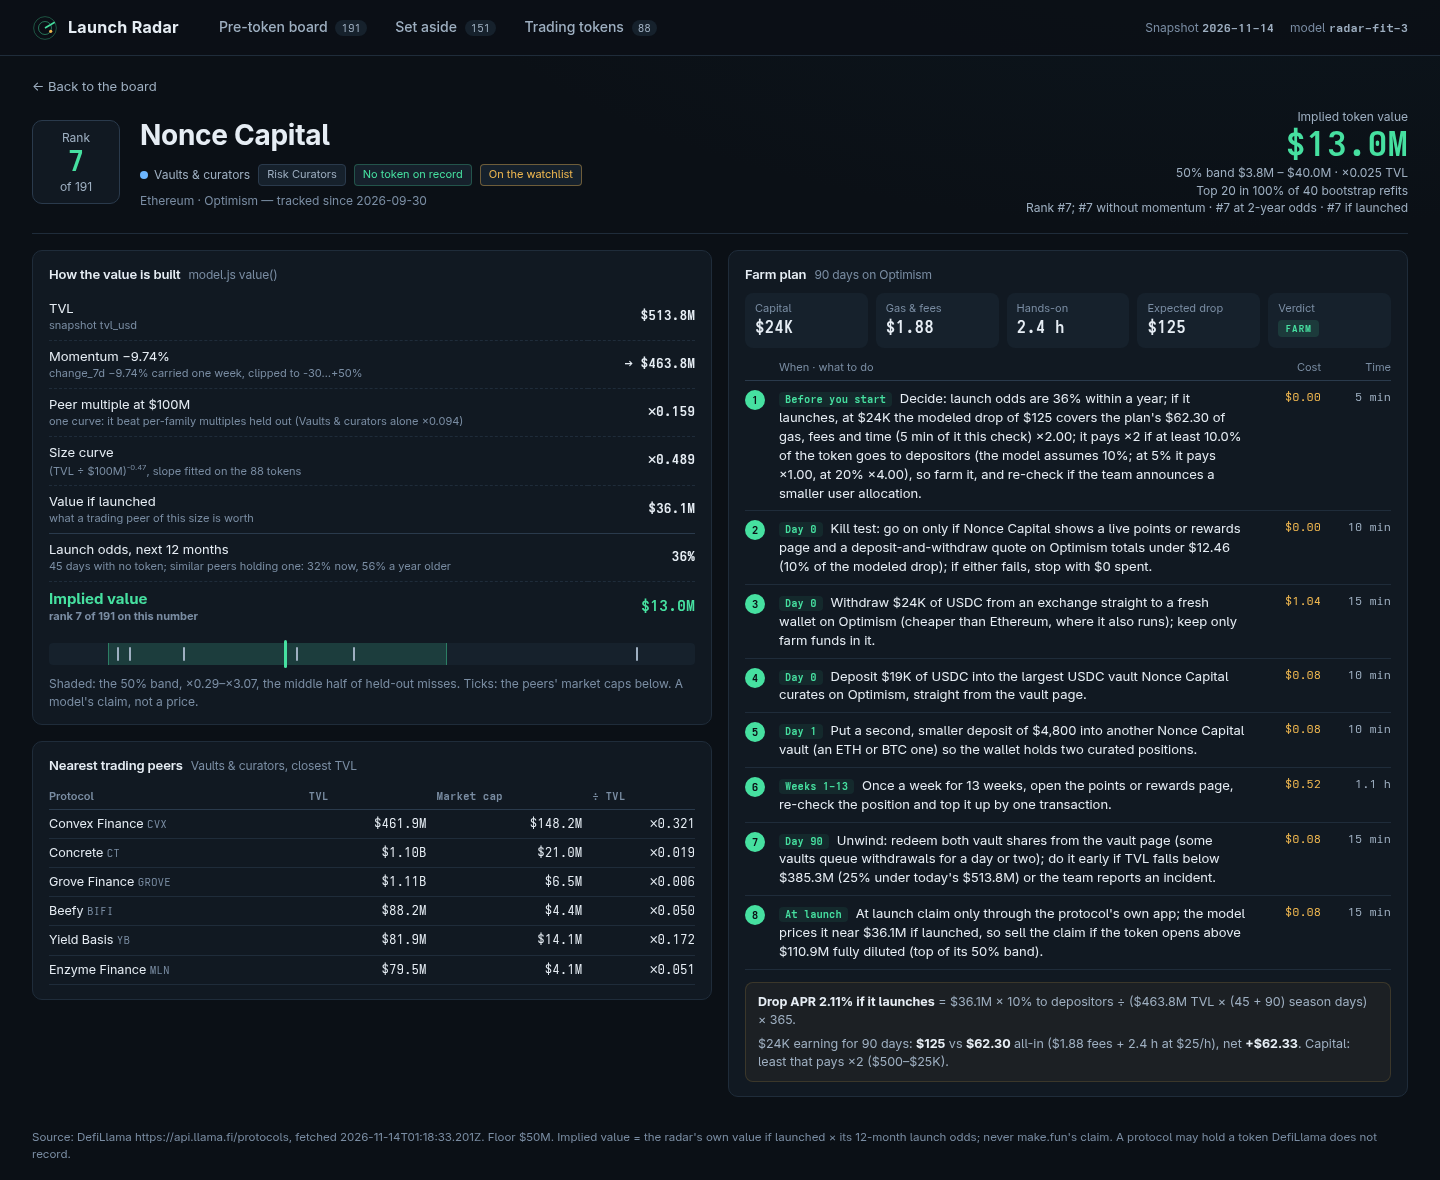
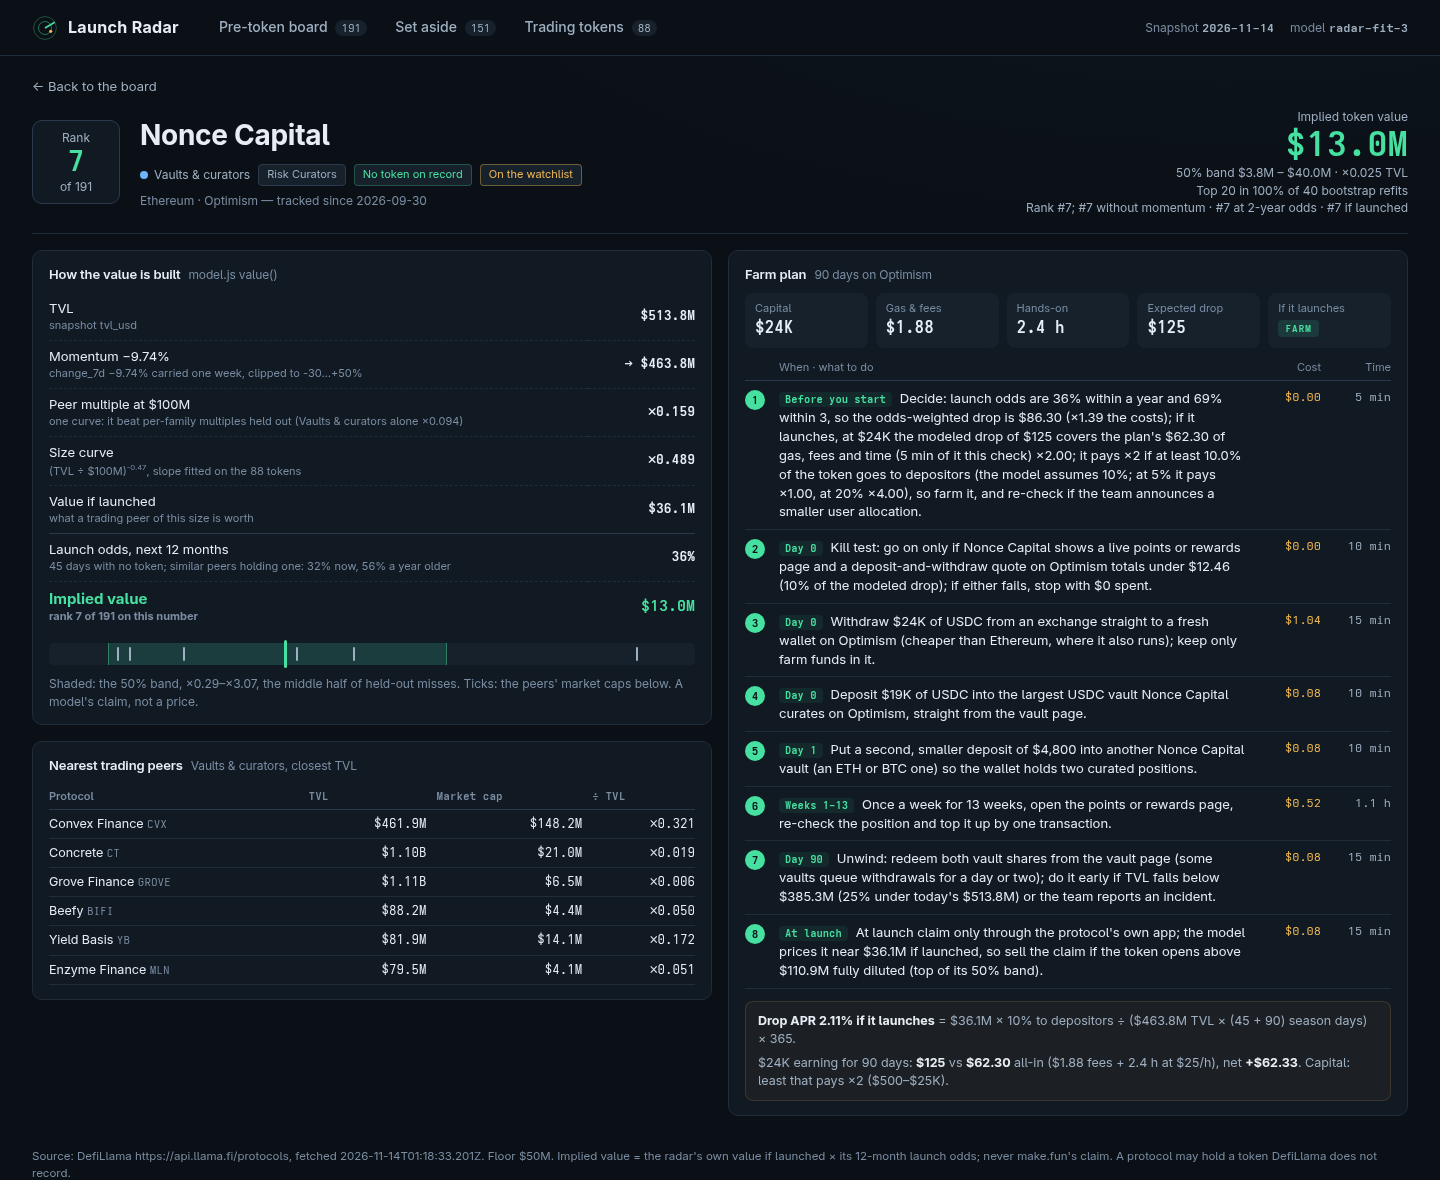
Every plan states its odds-weighted drop over 3 years; verdicts labelled as conditional on a launch

diff --git a/dashboard/model.js b/dashboard/model.js
@@ -12,6 +12,7 @@
     growth_floor: -30, // 7-day change used for momentum, clipped (per cent)
     growth_cap: 50,
     odds_days: 365, // launch odds are for a token within this many days
+    ev_days: 1095, // each plan also weighs its drop by the odds of a token within this many days
     odds_ridge: 1, // L2 penalty of the odds fit: best-calibrated walk-forward of the leave-one-out ties
     drop_share: 0.10, // assumed share of supply sent to depositors, pro rata to TVL-days
     farm_days: 90, // the plan's holding window
@@ -235,13 +236,14 @@
     var fitted = tvlNext * fam.multiple * sizeMult;
     var age = ageDays(asOf, p.listed_at), ageUsed = age == null ? ageFallback : age;
     var o = fit.odds, f0 = o.F(p, ageUsed), f1 = o.F(p, ageUsed + M.odds_days), timeF = (f1 - f0) / (1 - f0);
+    var q3 = (o.F(p, ageUsed + M.ev_days) - f0) / (1 - f0);
     var implied = Math.max(1, Math.round(fitted * timeF));
 
     // Airdrop yield if it launches: drop_share of the value if launched, split over every dollar-day of
     // TVL in the current season (since listing, at most season_days) plus the plan's window.
     var apr = fitted * M.drop_share / (tvlNext * (Math.min(ageUsed, M.season_days) + M.farm_days)) * 365;
     return { family: fam.key, growth: growth, growth_imputed: p.change_7d == null,tvl_next: Math.round(tvlNext), fam_multiple: fam.multiple, size_mult: sizeMult,
-      fitted: Math.round(fitted), age: age, age_used: ageUsed, time_factor: timeF, f0: f0, f1: f1, implied: implied,
+      fitted: Math.round(fitted), age: age, age_used: ageUsed, time_factor: timeF, q3: q3, f0: f0, f1: f1, implied: implied,
       low: Math.round(implied * fit.band_low), high: Math.round(implied * fit.band_high), cap_high: Math.round(fitted * fit.band_high), multiple: implied / p.tvl_usd, apr: apr };
   }
 
@@ -295,7 +297,7 @@
     var verdict = drop >= M.target_cover * t.all ? 'farm' : drop >= t.all ? 'marginal' : 'skip';
     // Every plan opens with its decision: the numbers, and the drop share at which it pays target_cover.
     var needShare = M.drop_share * M.target_cover * t.all / Math.max(drop, 1e-9);
-    st.unshift({ when: 'Before you start', usd: 0, min: 5, act: 'Decide: launch odds are ' + Math.round(v.time_factor * 100) + '% within a year; if it launches, at ' + usd(capital) + ' the modeled drop of ' + usd(drop) + ' covers the plan\'s ' + usd(t.all) +
+    st.unshift({ when: 'Before you start', usd: 0, min: 5, act: 'Decide: launch odds are ' + Math.round(v.time_factor * 100) + '% within a year and ' + Math.round(v.q3 * 100) + '% within 3, so the odds-weighted drop is ' + usd(drop * v.q3) + ' (×' + (drop * v.q3 / t.all).toFixed(2) + ' the costs); if it launches, at ' + usd(capital) + ' the modeled drop of ' + usd(drop) + ' covers the plan\'s ' + usd(t.all) +
       ' of gas, fees and time (5 min of it this check) ×' + (drop / t.all).toFixed(2) + '; it pays ×' + M.target_cover + ' if at least ' + (needShare * 100).toFixed(1) +
       '% of the token goes to depositors (the model assumes ' + M.drop_share * 100 + '%; at 5% it pays ×' + (drop / t.all / 2).toFixed(2) + ', at 20% ×' + (drop / t.all * 2).toFixed(2) + '), so ' + (verdict === 'farm' ? 'farm it, and re-check if the team announces a smaller user allocation' : verdict === 'skip' ? 'skip it unless the team announces a larger user allocation' : 'farm it only with funds already on ' + chain) });
     return { chain: chain, gas: tx, stake: capital, eligible: eligible(stake), asset: asset, steps: st, cost: t.cost, minutes: t.min, time_usd: t.min / 60 * M.hour_usd, all_in: t.all,

diff --git a/dashboard/app.js b/dashboard/app.js
@@ -197,7 +197,7 @@
       <span>Basket, best net per dollar of the ${shown.length} shown, within ${usd(+st.bud)} and ${HOURS} h: ${pick.map((r) => `<a href="${link({ p: r.p.slug })}">${esc(r.p.name)}</a> ${usd(r.plan.stake)}`).join(' · ') || 'none pays'} → <b>${usd(cap)}</b>, ${hrs.toFixed(1)} h, net <b class="up">+${usd(pick.reduce((s, r) => s + r.plan.net, 0))}</b></span></section>
     <section class="filters"><div class="chips" role="group" aria-label="Family">${famLinks}</div></section>
     <div class="tablewrap"><table class="board">
-      <thead><tr>${th('rank', 'Rank')}${th('name', 'Protocol')}<th>Family</th>${th('tvl', 'TVL', 'num')}${th('g', '7d', 'num')}${th('age', 'No token', 'num')}${th('value', 'Implied value · 50% band', 'val')}${th('odds', 'Odds 12m', 'num')}${th('apr', 'Drop APR', 'num')}${th('plan', 'Farm plan · 90 days', 'plan')}</tr></thead>
+      <thead><tr>${th('rank', 'Rank')}${th('name', 'Protocol')}<th>Family</th>${th('tvl', 'TVL', 'num')}${th('g', '7d', 'num')}${th('age', 'No token', 'num')}${th('value', 'Implied value · 50% band', 'val')}${th('odds', 'Odds 12m', 'num')}${th('apr', 'Drop APR', 'num')}${th('plan', 'Farm plan · if it launches', 'plan')}</tr></thead>
       <tbody>${body || '<tr><td colspan="10" class="empty">No protocol matches these filters.</td></tr>'}</tbody></table></div>`;
   }
 
@@ -246,7 +246,7 @@
           <div><small>Gas &amp; fees</small><b>${usd(pl.cost)}</b></div>
           <div><small>Hands-on</small><b>${R.mins(pl.minutes)}</b></div>
           <div><small>Expected drop</small><b>${usd(pl.drop)}</b></div>
-          <div><small>Verdict</small>${verdictTag(pl.verdict)}</div>
+          <div><small>If it launches</small>${verdictTag(pl.verdict)}</div>
         </div>
         <div class="steph"><span></span><span>When · what to do</span><span>Cost</span><span>Time</span></div>
         <ol class="steps">${pl.steps.map((s) => `<li><p><em>${esc(s.when)}</em>${esc(s.act)}.</p><span class="cost">${usd(s.usd)}</span><span class="time">${R.mins(s.min)}</span></li>`).join('')}</ol>
